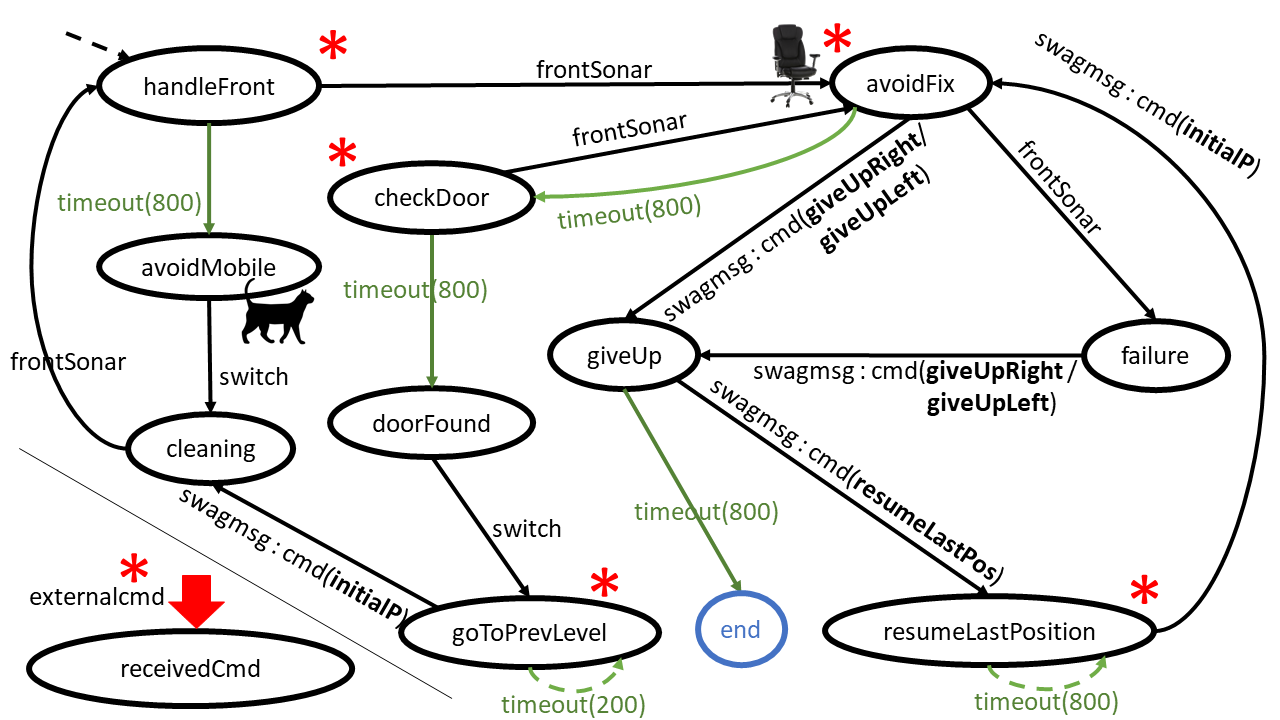
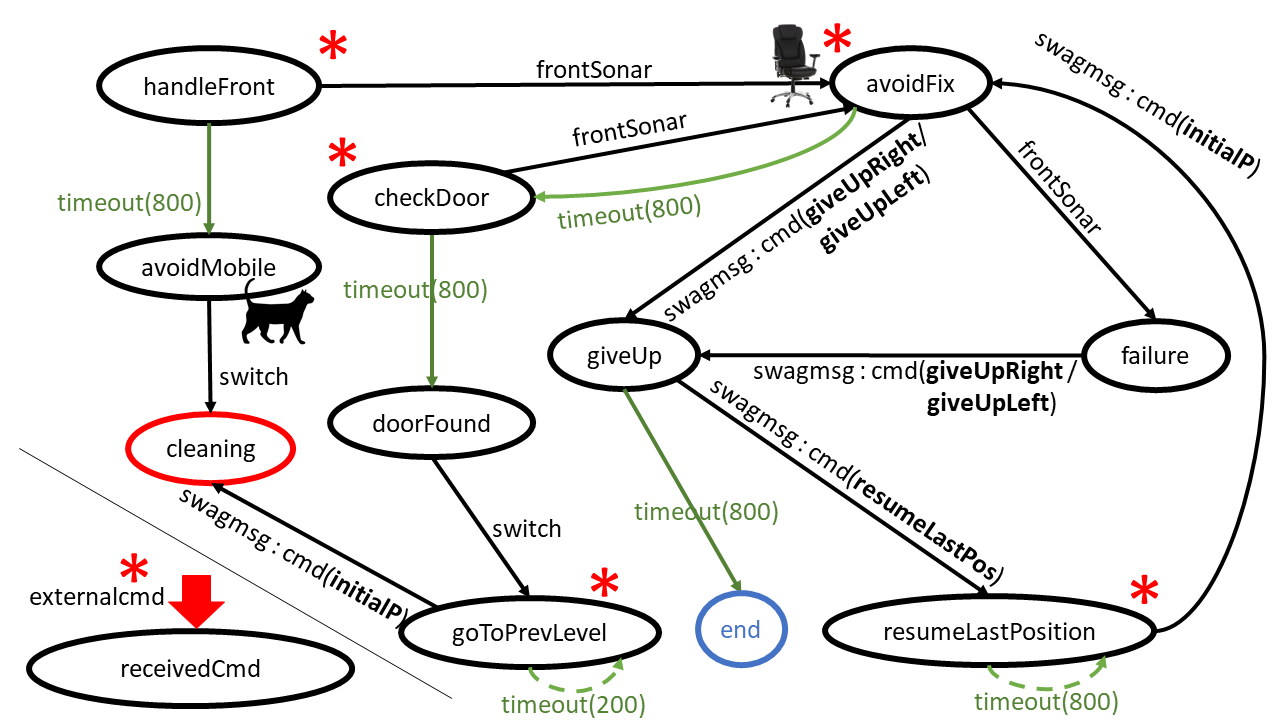
Modifiche e screen FrontendServer + correzione disegni

diff --git a/it.unibo.finalTask2018/nodeCode/frontend/applCodeRobot.js b/it.unibo.finalTask2018/nodeCode/frontend/applCodeRobot.js
@@ -43,8 +43,8 @@ app.use(cookieParser());
 
 app.use(express.static(path.join(__dirname, 'jsCode')))
 
-var externalActuatorMqtt = false; //when true, the application logic is external to the server;
-var externalActuatorSocket = true;
+var externalActuatorMqtt = false; //when true, the application logic is external to the server (Mqtt)
+var externalActuatorSocket = true; //when true, the application logic is external to the server (Socket)
 var withAuth         = true;
 
 if( externalActuatorMqtt ) mqttUtils  = require('./uniboSupports/mqttUtils');
@@ -60,7 +60,7 @@ if( withAuth ){
 	 passport         = require("passport");			 
 	 setUpPassport    = require("./setuppassport");   
 	 mongoose         = require("mongoose");			 
-	 flash            = require("connect-flash");     	
+	 flash            = require("connect-flash"); 
 	
 	 setUpAuth();
 }
@@ -94,7 +94,9 @@ if( withAuth ){
 	  res.redirect("/");
 	});
 	app.get("/signup", function(req, res) {
-	  res.render("signup");
+	  res.render("signup",
+			   {flash: {errors: req.flash('error')}});
+
 	});
 
 	app.post("/signup", function(req, res, next) {  
@@ -126,9 +128,10 @@ if( withAuth ){
 	  });
 	});
 	app.get("/edit", ensureAuthenticated, function(req, res) {
-	  res.render("edit");
+	  res.render("edit",
+			  {flash: {infos: req.flash('info')}});
 	});
-	app.post("/edit", ensureAuthenticated, function(req, res, next) {console.log("edittttttttttttttttttttt " + req.body.displayName);
+	app.post("/edit", ensureAuthenticated, function(req, res, next) {console.log("edit " + req.body.displayName);
 	  req.user.displayName = req.body.displayname;
 	  req.user.bio = req.body.bio;
 	  req.user.save(function(err) {
@@ -147,34 +150,37 @@ if( withAuth ){
  */
 	app.post("/robot/actions/commands/appl", function(req, res) {
 		console.info("START THE APPLICATION "   );
-		if( externalActuatorMqtt ) delegateMqtt( "x(low)", "application", req, res);
-		else if(externalActuatorSocket) delegateSocket("msg(alarm,event,js,none,usercmd(clean)","application",req,res);
+		delegate( "msg(alarm,event,js,none,usercmd(clean)", "application", req, res);
+ 	});	
+	app.post("/robot/actions/commands/stop", function(req, res) {
+		console.info("STOP THE APPLICATION ");
+		delegate( "msg(alarm,event,js,none,usercmd(halt)","stop application", req, res);
  	});	
 
 	app.post("/robot/actions/commands/w", function(req, res) {
-		if( externalActuatorMqtt ) delegateMqtt( "w(low)", "moving forward", req, res);
-		else if(externalActuatorSocket) delegateSocket("msg(usercmd,event,js,none,usercmd(robotgui( w(low) ))","moving forward",req,res);
+		if(externalActuatorMqtt || externalActuatorSocket)
+			delegate("msg(usercmd,event,js,none,usercmd(robotgui( w(low) ))","moving forward",req,res);
 		else actuate( `{ "type": "moveForward",  "arg": -1 }`, "server moving forward", req, res);
 		
 	});	
 	app.post("/robot/actions/commands/s", function(req, res) {
-		if( externalActuatorMqtt ) delegateMqtt( "s(low)", "moving backward", req, res );
-		else if(externalActuatorSocket) delegateSocket("msg(usercmd,event,js,none,usercmd(robotgui( s(low) ))","moving backward",req,res);
+		if(externalActuatorMqtt || externalActuatorSocket)
+			delegate("msg(usercmd,event,js,none,usercmd(robotgui( s(low) ))","moving backward",req,res);
 		else actuate( `{ "type": "moveBackward",  "arg": -1 }`, "server moving backward", req, res);
 	});	
 	app.post("/robot/actions/commands/a", function(req, res) {
- 		if( externalActuatorMqtt ) delegateMqtt( "a(low)", "moving left", req, res );
-		else if(externalActuatorSocket) delegateSocket("msg(usercmd,event,js,none,usercmd(robotgui( a(low) ))","moving left",req,res);
+		if(externalActuatorMqtt || externalActuatorSocket)
+			delegate("msg(usercmd,event,js,none,usercmd(robotgui( a(low) ))","moving left",req,res);
 		else actuate( `{ "type": "turnLeft",  "arg": 1000 }`, "server moving left", req, res);
 	});	
 	app.post("/robot/actions/commands/d", function(req, res) {
-  		if( externalActuatorMqtt ) delegateMqtt( "d(low)", "moving right", req, res );
-		else if(externalActuatorSocket) delegateSocket("msg(usercmd,event,js,none,usercmd(robotgui( d(low) ))","moving right",req,res);
+		if(externalActuatorMqtt || externalActuatorSocket)
+			delegate("msg(usercmd,event,js,none,usercmd(robotgui( d(low) ))","moving right",req,res);
 		else actuate( `{ "type": "turnRight",  "arg": 1000 }`, "server moving right", req, res);
 	});	
 	app.post("/robot/actions/commands/h", function(req, res) {
-  		if( externalActuatorMqtt ) delegateMqtt( "h(low)", "stopped", req, res );
-		else if(externalActuatorSocket) delegateSocket("msg(usercmd,event,js,none,usercmd(robotgui( h(low) ))","stopped",req,res);
+		if(externalActuatorMqtt || externalActuatorSocket)
+			delegate("msg(usercmd,event,js,none,usercmd(robotgui( h(low) ))","stopped",req,res);
 		else actuate( `{  "type": "alarm",  "arg": 1000 }`, "server stopped", req, res);
 	});		
 	
@@ -215,6 +221,7 @@ if( withAuth ){
 function setUpAuth(){ //AUTH
 	try{	
 		console.log("\tWORKING WITH AUTH ... "  ) ;
+//		mongoose.connect("mongodb://192.168.99.100:27017/test"); per il Mongo di docker
 		mongoose.connect("mongodb://localhost:27017/test");
 		setUpPassport();	
 		app.use(session({	 
@@ -252,48 +259,30 @@ function setUpConn(){ // EXTERNAL ACTUATOR SOCKET
 	})
 }
 
-var msgNum=1; // EXTERNAL ACTUATOR SOCKET
-function sendMsg(msg){
-	try{
-		msg=msg+","+msgNum++ +")";
-		console.log("SENDING "+msg);
-		conn.write(msg+"\n");
-	}
-	catch(e){
-		console.log("ERROR "+e);
-	}
-}
-
-function delegateSocket(cmd,newState,req,res){ // EXTERNAL ACTUATOR SOCKET
-	robotModel.robot.state = newState;
-	sendMsg(cmd);
-	res.render("access");
-}
-
-
 function ensureAuthenticated(req, res, next) {
 	  if (req.isAuthenticated()) {
 		  next();
 	  } else {
-		    req.flash("info", "You must be logged in to see this page.");
+		    req.flash("info", "You must be logged into see this page.");
 		    res.redirect("/login");
 	  }
 }
 
-function delegateMqtt( hlcmd, newState, req, res ){ // EXTERNAL ACTUATOR MQTT
+var msgNum=1; //parte da 1 e aumenterà via via
+function delegate(msg,newState,req,res){
+	msg=msg+","+msgNum++ +")";
 	robotModel.robot.state = newState;
-	emitRobotCmd(hlcmd);
-    res.render("access");	
-}
-
-var emitRobotCmd = function( cmd ){ //called by delegateMqtt;
-	if(cmd == "x(low)")
-		var eventstr = "msg(alarm,event,js,none,usercmd(clean),1)";
-	else
-		var eventstr = "msg(usercmd,event,js,none,usercmd(robotgui( " +cmd + ")),1)";
- 	//var eventstr = "msg(cmd,event,js,none,cmd(" +cmd + "),1)" ;
- 	console.log("emits> "+ eventstr);
- 		mqttUtils.publish( eventstr );	//topic  = "unibo/qasys";
+	console.log("emits -> "+ msg);
+	try{
+		if(externalActuatorMqtt)
+	 		mqttUtils.publish( msg );	//topic  = "unibo/qasys"
+		else if(externalActuatorSocket)
+			conn.write(msg+"\n");
+	}
+	catch(e){
+		console.log("ERROR "+e);
+	}
+	res.render("access");
 }
 
 function actuate(cmd, newState, req, res ){ 
